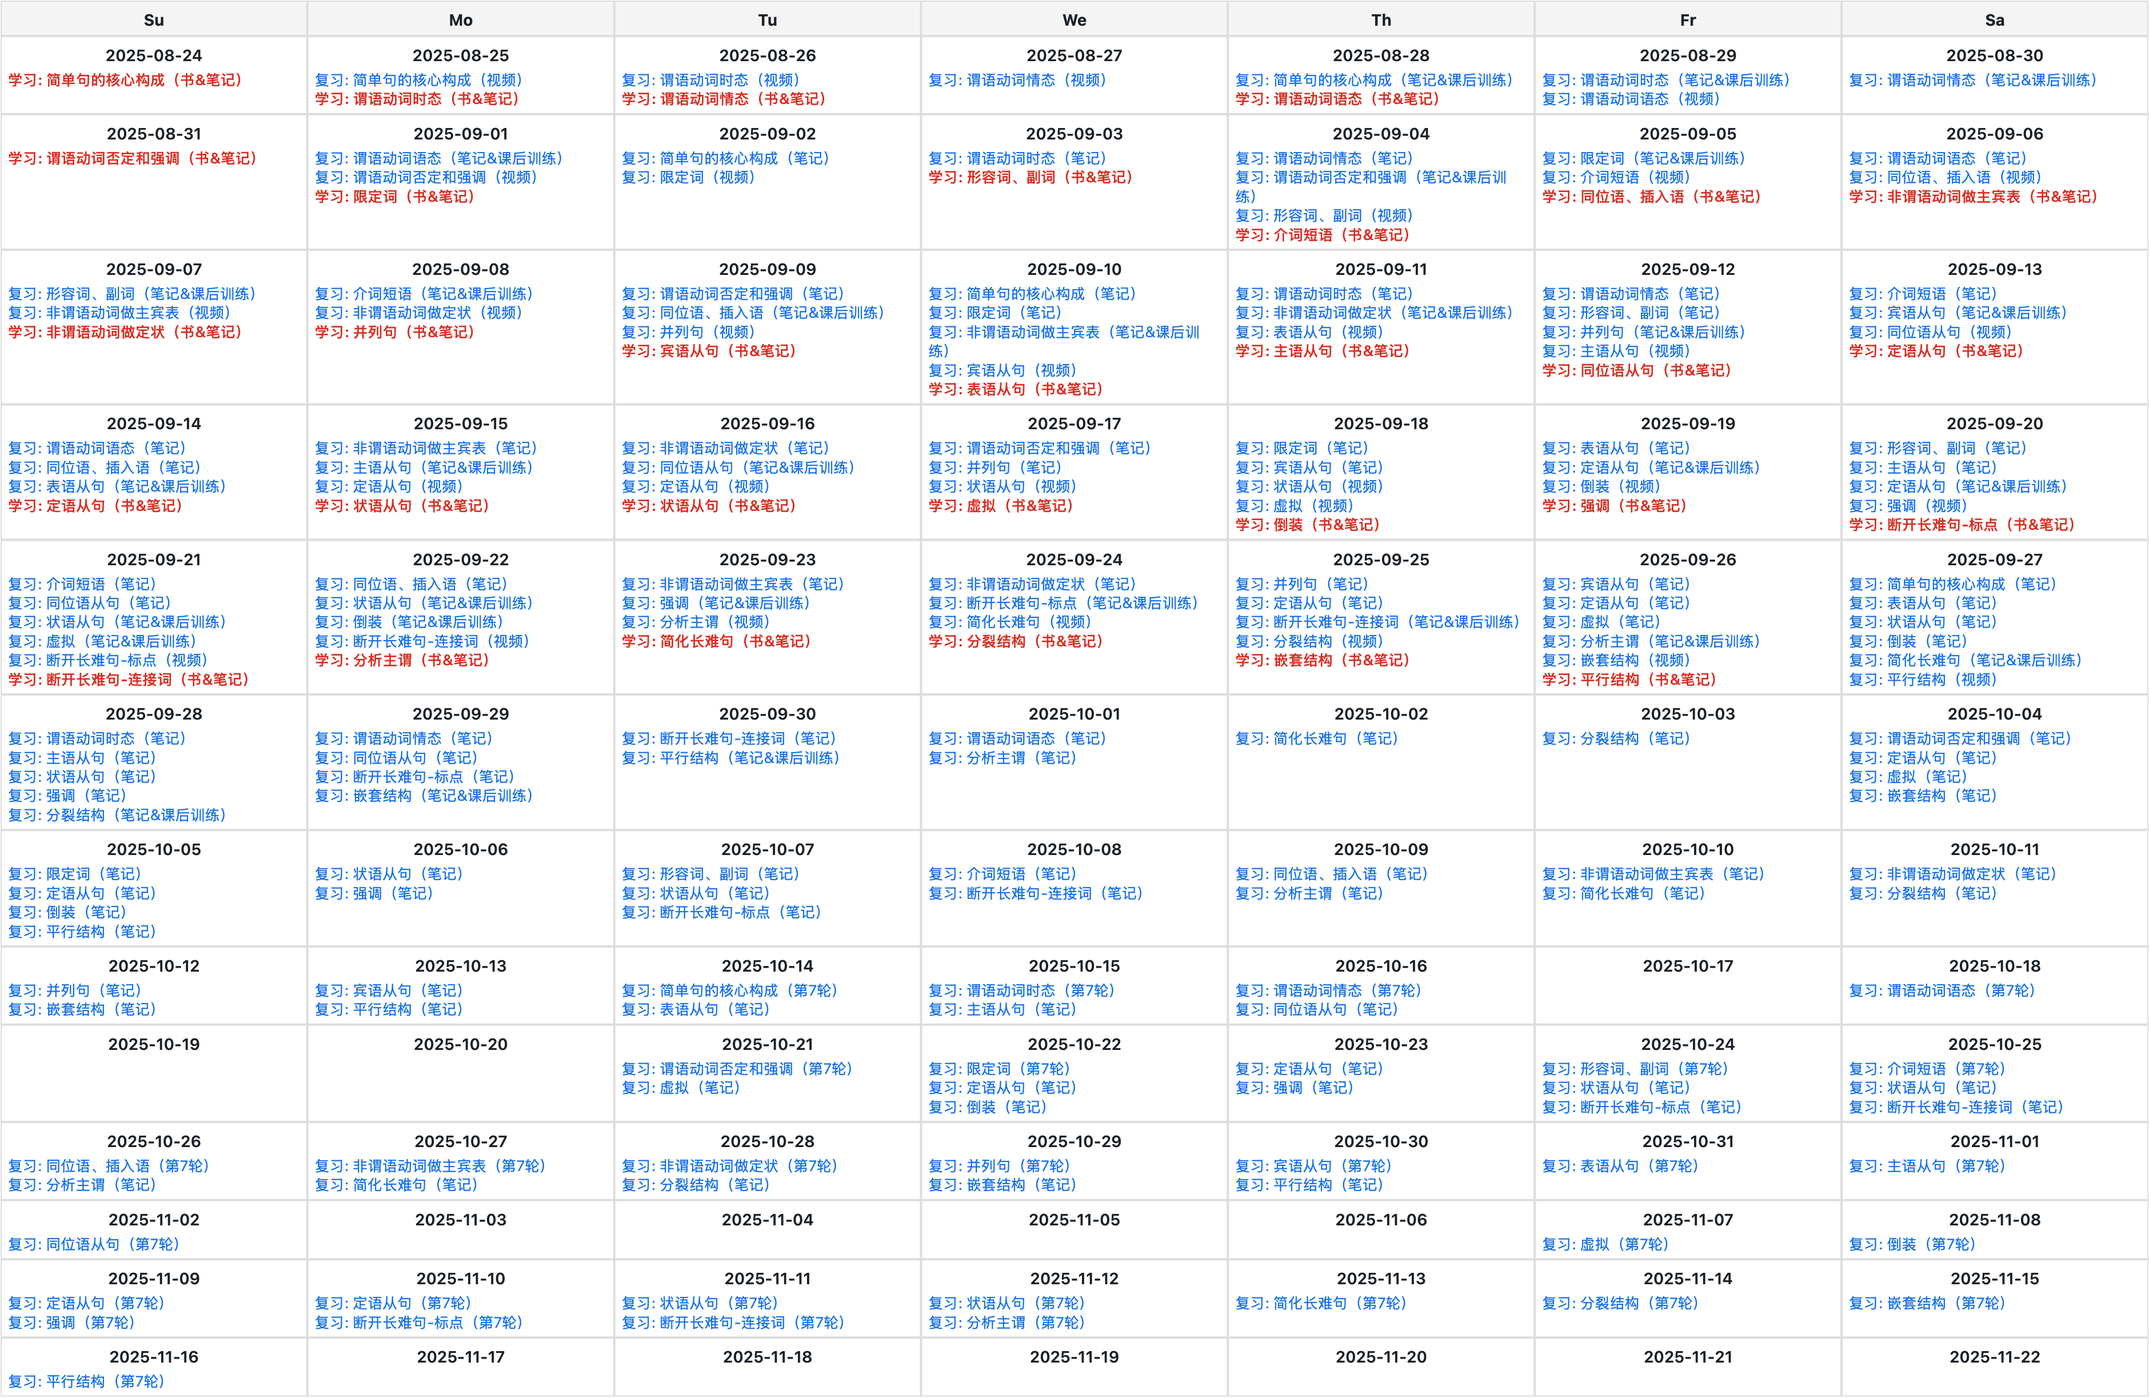
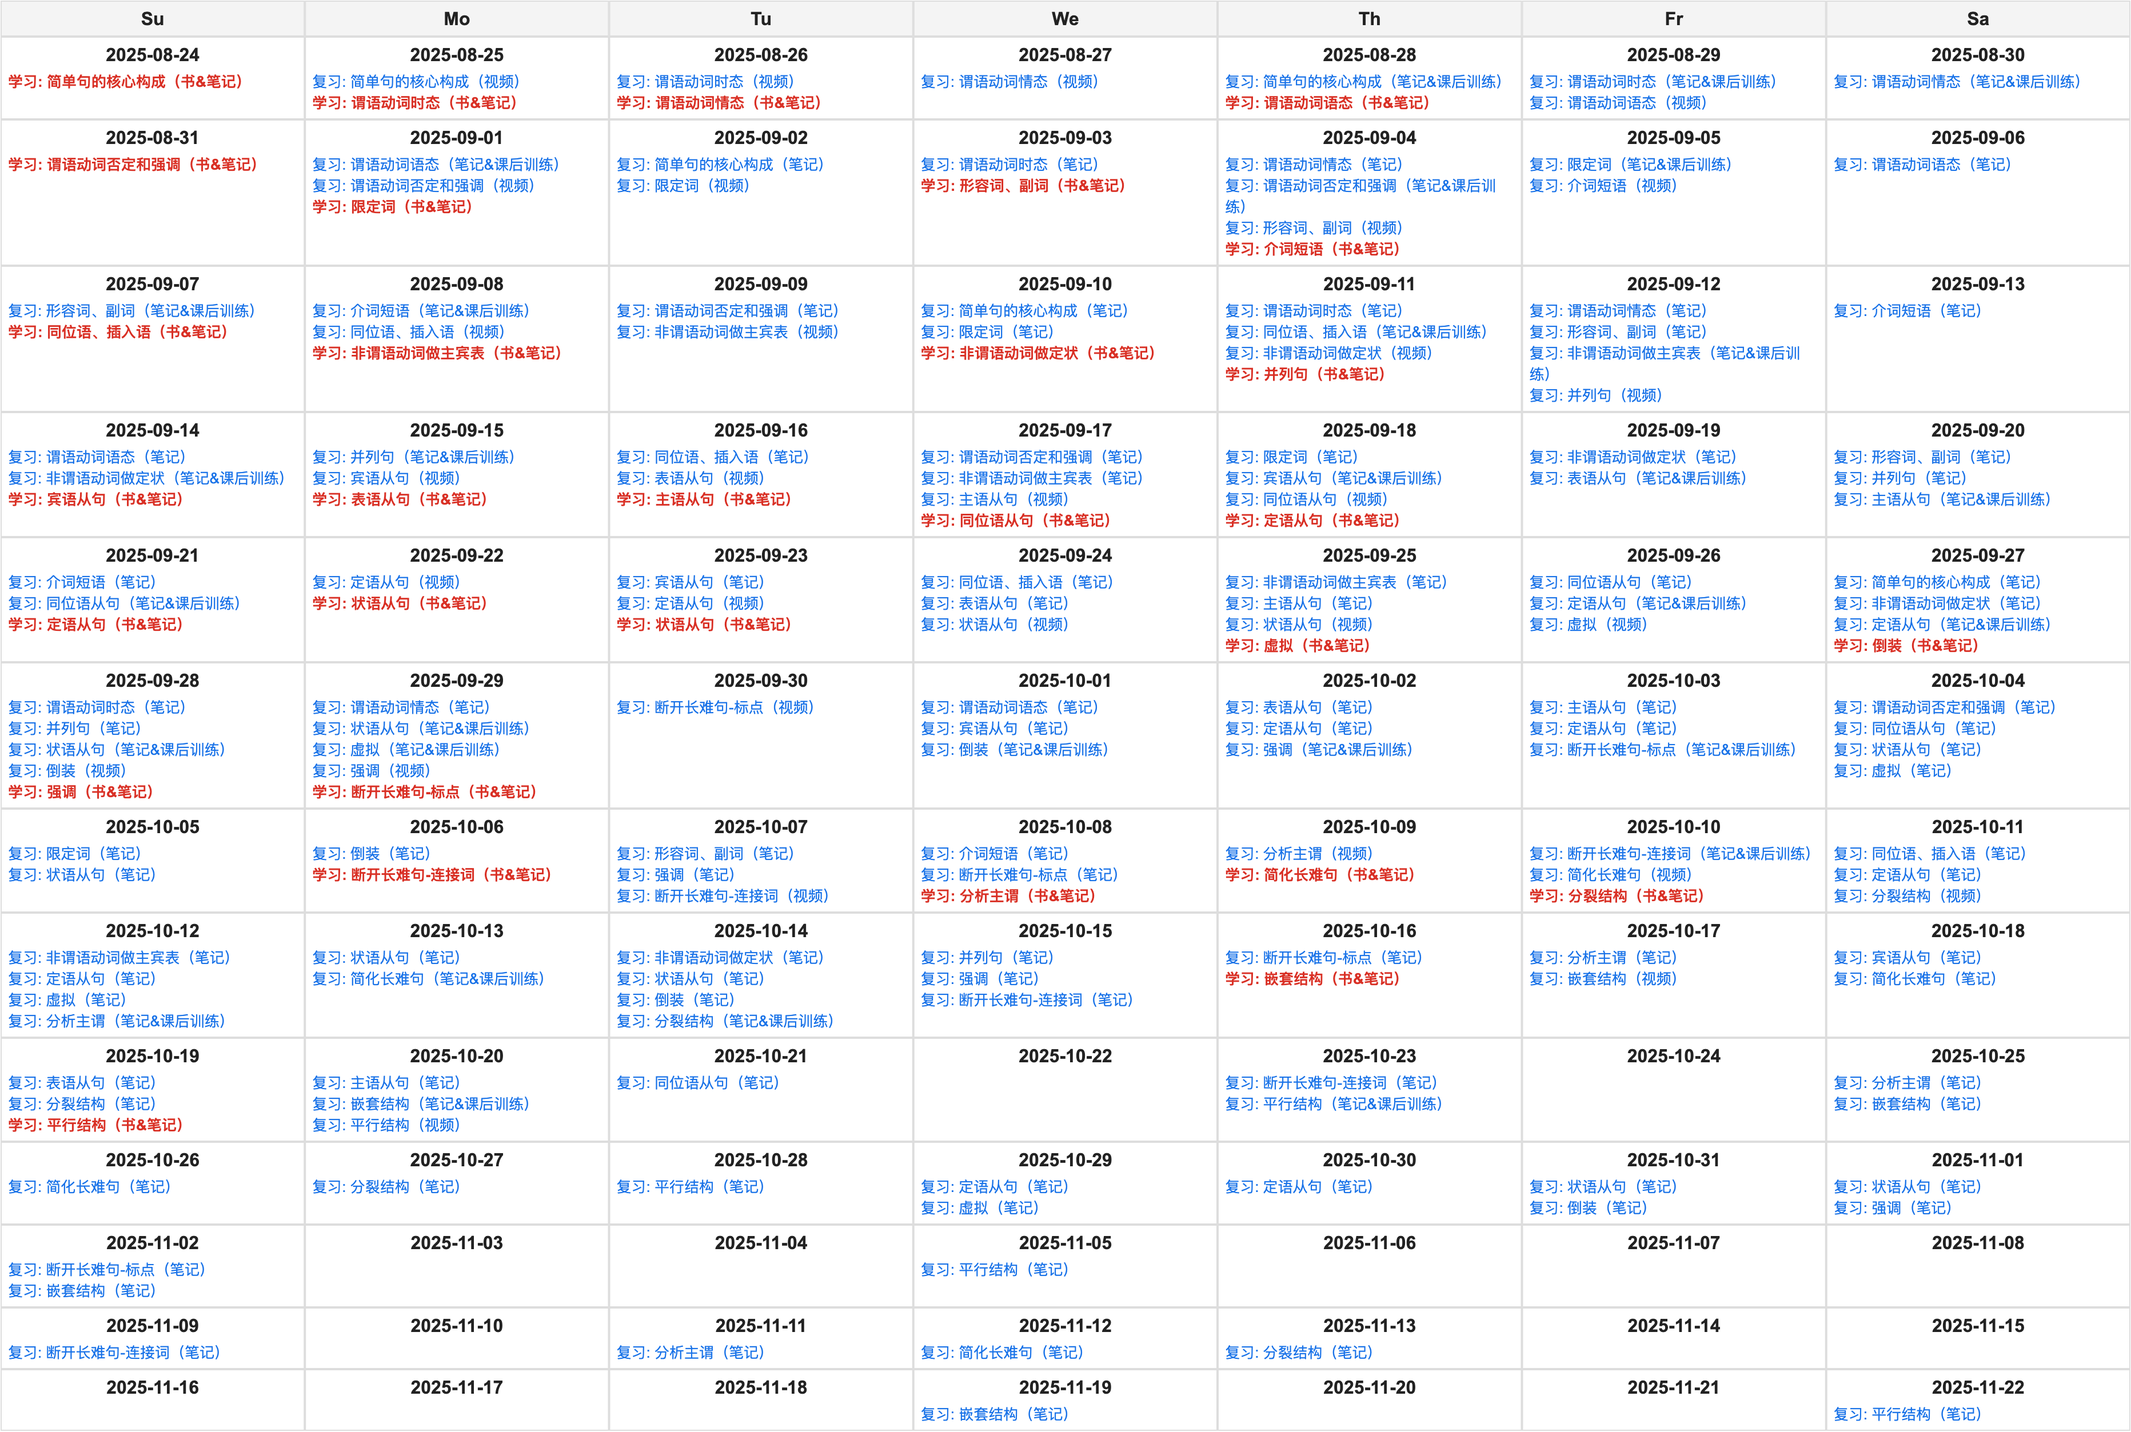
update: p30-p32, p39-p41

Changed region(s): [[0.0, 0.0311, 0.9957, 0.9943], [0.7468, 0.9632, 0.809, 0.9943]]

diff --git a/utils/html/generate-forgetting-curve-with-task-duration.html b/utils/html/generate-forgetting-curve-with-task-duration.html
@@ -53,9 +53,9 @@
     </label>
 
     <label>休息日（YYYY-MM-DD，逗号分隔）:
-        <!-- 数学休息日： 2025-08-29,2025-08-30,2025-09-02,2025-09-03,2025-09-04,2025-09-05,2025-09-09,2025-09-10,2025-09-11,2025-09-13,2025-09-16,2025-09-19,2025-09-20,2025-09-28,2025-09-30,2025-10-08,2025-10-09,2025-10-11,2025-10-12,2025-10-14,2025-10-17     -->
-        <!-- 英语语法休息日：2025-08-27,2025-08-29,2025-08-30,2025-09-02  -->
-        <input type="text" id="rest-days" value="2025-08-29,2025-08-30,2025-09-02,2025-09-03,2025-09-04,2025-09-05,2025-09-09,2025-09-10,2025-09-11,2025-09-13,2025-09-16,2025-09-19,2025-09-20,2025-09-28,2025-09-30,2025-10-08,2025-10-09,2025-10-11,2025-10-12,2025-10-14,2025-10-17" class="rest-input">
+        <!-- 数学休息日: 2025-08-29,2025-08-30,2025-09-02,2025-09-03,2025-09-04,2025-09-05,2025-09-09,2025-09-10,2025-09-11,2025-09-13,2025-09-16,2025-09-19,2025-09-20,2025-09-28,2025-09-30,2025-10-08,2025-10-09,2025-10-11,2025-10-12,2025-10-14,2025-10-17     -->
+        <!-- 英语语法休息日: 2025-08-27,2025-08-29,2025-08-30,2025-09-02,2025-09-05,2025-09-06,2025-09-09,2025-09-12,2025-09-13,2025-09-19,2025-09-20,2025-09-24,2025-09-26,2025-09-30,2025-10-01,2025-10-02,2025-10-03,2025-10-04,2025-10-05,2025-10-07,2025-10-11,2025-10-12,2025-10-13,2025-10-14,2025-10-15,2025-10-17,2025-10-18 -->
+        <input type="text" id="rest-days" value="2025-08-27,2025-08-29,2025-08-30,2025-09-02,2025-09-05,2025-09-06,2025-09-09,2025-09-12,2025-09-13,2025-09-19,2025-09-20,2025-09-24,2025-09-26,2025-09-30,2025-10-01,2025-10-02,2025-10-03,2025-10-04,2025-10-05,2025-10-07,2025-10-11,2025-10-12,2025-10-13,2025-10-14,2025-10-15,2025-10-17,2025-10-18" class="rest-input">
     </label>
 
     <div>

diff --git a/english/word/simple-word/markdown/p30-p32.md b/english/word/simple-word/markdown/p30-p32.md
@@ -2,7 +2,10 @@
 
 - pool
     - n. 水池；vt. 汇聚，把...集中在一起
-    - a way of pooling assets
+    - a way of pooling assets([ˈæset])
+- poll [poʊl]
+    - n. 民意测验；选举投票
+    - pull [pʊl] v. 拉
 - yours
 - myself
 - convenient
@@ -40,7 +43,7 @@
 - reshape
     - v. 重塑
 - tuition [tuˈɪʃn]
-    - n. 教学，指导；学费 
+    - n. 教学，指导；学费
 - subheading
     - n. 副标题，小标题
     - sub- 在...之下
@@ -54,19 +57,20 @@
 - hair
     - n. 头发，毛发
 - camp [kæmp]
-    - n. 野营，营地； vi. 露营 
+    - n. 野营，营地； vi. 露营
     - Suppose your university is going to host a <u>summer camp</u> for high school students.
         - summer camp 夏令营
 - lag [læɡ]
-    - vi. 拖后腿，走得慢 
-    - Graduates from elite([ɪˈliːt] 精英) universities tend to lag behind the others <u>due to(由于)</u> decreased opportunities.
+    - vi. 拖后腿，走得慢
+    - Graduates from elite([ɪˈliːt] 精英) universities tend to lag behind the others <u>due to(由于)</u> decreased
+      opportunities.
     - leg n. 腿
 - loser
 - coal [koʊl]
-    - n. 煤块 
+    - n. 煤块
     - cold
 - drought [draʊt]
-    - n. 干旱；旱灾 
+    - n. 干旱；旱灾
 - guess
     - v./n. 猜测；推测
 - reorganize
@@ -83,14 +87,14 @@
     - 应该
         - I will be your God and you shall be my people.
 - chew [tʃuː]
-    - v. 咀嚼，嚼碎 
+    - v. 咀嚼，嚼碎
 - trillion [ˈtrɪljən]
-    - num. 万亿；兆 
+    - num. 万亿；兆
     - billion 十亿
     - million 百万
     - 1(trillion),000(billion),000(million),000(thousand),000
 - terrible
-    - adj. 极度的；可怕的；**糟糕的**
+    - adj. **糟糕的**；极度的；可怕的
     - A clean copy <u>fresh off(刚刚完成/出炉)</u> a printer may look terrible.
     - terri- 恐怖
         - terror [ˈterər] n. 恐怖；可怕的人；恐怖的事
@@ -102,28 +106,28 @@
     - n. 磅（重量）；英镑； v. 猛烈敲击
     - pend- 悬挂；花销
 - nasty [ˈnæsti]
-    - adj. 令人讨厌的；险恶的；下流的 
+    - adj. 令人讨厌的；险恶的；下流的
 - gold
     - n. 黄金；金色；adj. 金质的；金色的
     - gold rush 淘金热
     - golden adj. 金色的；金制的
 - shore [ʃɔːr]
-    - n. 海滨； vt. 支持，支撑(shore up) 
+    - n. 海滨；vt. 支持，支撑(shore up)
     - The government used subsidies(津贴) to <u>shore (up)</u> farm prices.
     - share
 - funny
     - adj. 滑稽的；稀奇的；可笑的，稍感不适的
 - bury [ˈberi]
-    - vt. 掩藏，掩埋 
+    - vt. 掩藏，掩埋
     - bur- == br- 燃烧
     - Archaeologists([ˌɑːrkiˈɑːlədʒɪst] 考古学家) also may locate(定位) buried remains by using technologies.
 - cucumber [ˈkjuːkʌmbər]
-    - n. 黄瓜 
+    - n. 黄瓜
 - suburb [ˈsʌbɜːrb]
-    - n. 市郊；郊区 
+    - n. 市郊；郊区
     - urban
 - enemy [ˈenəmi]
-    - n. 敌人；敌国 
+    - n. 敌人；敌国
     - They can identify(辨认) friends to cooperate with and enemies to avoid. 他们能够辨认出可以合作的朋友，以及需要回避的敌人
 - gate
     - n. 大门；入口；登机口
@@ -137,12 +141,13 @@
     - Some of the contents of this gas pollute the atmosphere([ˈætməsfɪr] 大气层).
     - pollution n. 污染物
 - charitable [ˈtʃærətəbl]
-    - adj. 慈善事业的；慈善团体的 
+    - adj. 慈善事业的；慈善团体的
     - charity n. 慈善事业
         - care- 关心
-        - Buying gifts or giving to charity is often more pleasurable([ˈplɛʒərəbəl]) than purchasing([ˈpɜːrtʃəs] 购买) things for oneself.
+        - Buying gifts or giving to charity is often more pleasurable([ˈplɛʒərəbəl]) than purchasing([ˈpɜːrtʃəs] 购买)
+          things for oneself.
 - fossil [ˈfɑːsl]
-    - n. **化石**；老顽固 
+    - n. **化石**；老顽固
     - pos- == fos- 放置
     - The fossil record shows that many species(物种) have endured([ɪnˈdʊr] 持续存在/忍受/经受住) for millions of years.
 - float
@@ -158,7 +163,7 @@
 - politically [pəˈlɪtɪklɪ]
     - adv. 政治上
     - policy [ˈpɑːləsi] n. 政策
-    - political [pəˈlɪtɪkl] adj. 政治的 
+    - political [pəˈlɪtɪkl] adj. 政治的
 - sick
     - adj. 患病的；想吐的；腻烦的；厌恶的(sick of)
     - 生病的
@@ -170,14 +175,14 @@
         - circular adj. 圆圈的，环的
     - You may have a circle of friends...
 - whenever
-    - conj. 无论何时，**每当**
+    - conj. **每当**，无论何时
     - Whenever I recite(背诵) words，I will think of my vocabulary teacher.
 - perfectly
     - adv. 完全地，十分
 - grocery [ˈɡroʊsəri]
-    - n. 食品杂货店 
+    - n. 食品杂货店
 - creature [ˈkriːtʃər]
-    - n. 生物，人，动物 
+    - n. 生物，人，动物
     - They are good-natured，cooperative creatures.
     - create v. 创造，产生
         - cre- 产生
@@ -187,7 +192,7 @@
     - luck n. 运气；好运
     - lock v. 锁
 - personnel [ˌpɜːrsəˈnel]
-    - n. 人员，**员工**；人事部门 
+    - n. **员工**，人员；人事部门
     - ~~a/an personnel~~
     - personal adj. 个人的
     - personally adv. 在个人看来
@@ -198,7 +203,7 @@
     - adj. 活着的；存在的；有活力的
     - ...stay alive，but have fewer children.
 - square [skwer]
-    - n. **广场；平方**；正方形；adj. **平方的**；直角的 
+    - n. **广场；平方**；正方形；adj. **平方的**；直角的
     - quar- 四
         - quarter 四分之一 [ˈkwɔːrtər]
     - 平方
@@ -209,11 +214,8 @@
     - If you're not sure，ask for honest feedback from trusted friends.
     - dishonest adj. 不诚实的；骗人的；欺骗性的
     - honestly adv. 诚实地；正当地
-- poll [poʊl]
-    - n. 民意测验；选举投票
-    - pull [pʊl] v. 拉 
 - youth [juːθ]
-    - n. 青春，青少年时代(不可数)；青年(可数) 
+    - n. 青春，青少年时代(不可数)；青年(可数)
     - lead more youths into criminal([ˈkrɪmɪnl]) behavior
     - young adj. 年轻的
 - ride
@@ -222,7 +224,7 @@
         - Princes(王子) and princesses(公主) have day-jobs and ride bicycles，not horses(马匹).
     - She took some friends for a ride in the family car.
 - pause [pɔːz]
-    - vi./n. 暂停，中止 
+    - vi./n. 暂停，中止
 - soft
     - adj. 软的；柔软的；轻柔的；柔和的；温和的；不含酒精的
     - soft passage 轻柔的乐章
@@ -232,7 +234,7 @@
     - undermine v. 破坏
         - Providing too little security([sɪˈkjʊrəti]) undermines public support.
 - ring
-    - n. 戒指；**环；铃声**；打电话
+    - n. **环；铃声**；戒指；打电话
 - son
 - tear
     - v. 撕裂；撕；n. 眼泪；泪珠
@@ -242,19 +244,19 @@
     - 眼泪
         - They become sad when the tears begin to flow.
 - tobacco [təˈbækoʊ]
-    - n. 烟草，烟叶 
+    - n. 烟草，烟叶
 - thesis [ˈθiːsɪs]
-    - n. 论文；论题 (pl. theses) 
+    - n. 论文；论题 (pl. theses)
     - theme + analysis
 - bother [ˈbɑːðər]
-    - vt. 打扰；使不安 
+    - vt. 打扰；使不安
     - This has long bothered policymakers in poor countries.
     - brother n. 兄弟
 - brown
     - adj. 棕色的，褐色的； n. 褐色
     - br- == bur- 燃烧
 - depict [dɪˈpɪkt]
-    - vt. 描绘，描写，描述 
+    - vt. 描绘，描写，描述
     - de 前缀 向下
     - pic- 描绘
         - picture
@@ -262,6 +264,9 @@
 - runner
 - lane
     - n. 小路，车道
+    - trail [treɪl] n. **小径；痕迹**
+    - pathway n. 小路，小径
+    - path n. 小路
 - puritan [ˈpjʊrɪtən]
     - n. **清教徒**；禁欲者；苦行憎
 - floor
@@ -278,11 +283,11 @@
     - **base** n. 基础，底部； v. 把...基于(base on)
     - basic adj. 基本的，基础的
 - poet [ˈpoʊət]
-    - n. 诗人 
+    - n. 诗人
     - poetry [ˈpoʊətri] n. 诗歌
     - poetic [poʊˈetɪk] adj. 诗歌的
 - hunter [ˈhʌntər]
-    - n. 猎人；狩猎者 
+    - n. 猎人；狩猎者
     - **headhunter** n. 猎头
     - hurt v./n. 受伤
     - hunt [hʌnt] v. 打猎
@@ -301,7 +306,7 @@
     - rental n. 租金
 - theirs
 - gum [ɡʌm]
-    - n. **口香糖**；牙龈；树胶 
+    - n. **口香糖**；牙龈；树胶
     - chew([tʃuː]) gum 嚼口香糖
 - thereby
     - adv. 因此，从而
@@ -312,20 +317,20 @@
             - His analysis should therefore end any self-contentedness(指“对自己太满意、安于现状”的心态 -> 自满、自得).
             - Therefore, it is important to study humans.
 - ladder [ˈlædər]
-    - n. 梯子；阶梯；途径 
+    - n. 梯子；阶梯；途径
     - Japanese education is praised(称赞) for helping the young climb the social ladder.
     - stairs 楼梯
     - lift(英)/elevator(美) 直梯
         - lift -> loft
 - monthly
 - clue [kluː]
-    - n. 线索，提示 
+    - n. 线索，提示
     - These offer clues to the careers([kəˈrɪr]) that will fit them best
 - questionable
     - adj. 可疑的；有问题的；未必准确的
     - question n. 问题； v. 提问
 - foresee [fɔːrˈsiː]
-    - vt. 预见，预料，预知 
+    - vt. 预见，预料，预知
     - fore- 在...之前
     - forecast [ˈfɔːrkæst] n./v. 预测，预料
         - cast- 投掷，扔
@@ -337,6 +342,8 @@
         - My sister and I do not look alike.
     - like prep. 像
         - Much of our social life is like that.
+    - dislike vt./n. 不喜欢，厌恶
+    - unlike prep. 不像，和...不同
 - engine
     - n. 发动机；机车，火车头
 - cheat
@@ -352,7 +359,7 @@
     - shoot vi./vt. 射击
 - length
 - violence [ˈvaɪələns]
-    - n. 暴力；猛烈 
+    - n. 暴力；猛烈
     - viol- 暴力
         - violent adj. 暴力的；猛烈的
         - violate v. 违背；冒犯
@@ -378,9 +385,9 @@
     - robot n. 机器人
     - robust adj. 强壮的；耐用的，结实的 [roʊˈbʌst]
 - loan [loʊn]
-    - n. 贷款；借，贷款 
+    - n. 贷款；借，贷款
     - housing loans 住房贷款
-- garment
+- garment [ˈɡɑːrmənt]
     - n. 服装(pl.)；一件衣服
     - People are more interested in unaffordable(负担不起) garments.
 - silent
@@ -393,11 +400,12 @@
     - neighbor/neighbour n. 邻居；邻近的人；邻国
         - their older neighbors
 - village [ˈvɪlɪdʒ]
-    - n. 乡村；(the village)乡村居民 
+    - n. 乡村；(the village)乡村居民
 - illness n. 疾病
 - click
     - v. 敲击，点击
-    - By watching what people search for，click on and say online，companies can aim "behavioral" ads at those most likely to buy.
+    - By watching what people search for，click on and say online，companies can aim "behavioral" ads at those most likely
+      to buy.
 - kingdom
     - n. 王国；领域
 - their
@@ -405,9 +413,9 @@
 - joke
     - n. 笑话，玩笑
 - ceiling [ˈsiːlɪŋ]
-    - n. 天花板；最高限度，最高限额 
+    - n. 天花板；最高限度，最高限额
     - glass ceiling 狭义：女性在职场中受到的不公平的待遇 -> 广义：指所有弱势群体面临的“看不见的职业发展障碍”
-        - They open the way to equality and they break through the glass ceiling. 
+        - They open the way to equality and they break through the glass ceiling.
 - manpower
     - n. 劳动力；人力
 - tester

diff --git a/english/word/simple-word/markdown/p39-p41.md b/english/word/simple-word/markdown/p39-p41.md
@@ -26,7 +26,7 @@
 - exit
     - n. 出口， vi. 离开
     - it- 走
-        - initiate [ɪˈnɪʃieɪt 开始，开创
+        - initiate [ɪˈnɪʃieɪt] 开始，开创
         - ambition [æmˈbɪʃn] 雄心，野心
 - amazed
     - adj. 惊奇的，惊讶的
@@ -91,7 +91,7 @@
     - special adj. 特别的，具体的
 - pile [paɪl]
     - n. 一堆，一叠； vt. 堆积，堆放； vi. 蜂拥，涌入
-    - a pile of 一些，一些列
+    - a pile of 一些，一系列
         - Each participant was shown a pile of pens.
     - 涌入
         - ...more students to pile into law schools.
@@ -145,7 +145,7 @@
 - shortly
 - laziness
     - n. 无精打采，懒惰
-    - lazy adj. 懒散的，懒惰的
+    - lazy [ˈleɪzi] adj. 懒散的，懒惰的
     - 我在床上lazy（懒惰的），感觉十分cozy（[ˈkoʊzi] 舒适的），妈妈气的crazy（疯狂的）
 - whereby
     - adv. 借此，凭此；由于
@@ -181,7 +181,6 @@
     - geography [dʒiˈɑːɡrəfi] n. 地理学；地理
 - geometry [dʒiˈɑːmətri]
     - n. 几何；几何图形
-    - geography [dʒiˈɑːɡrəfi] n. 地理（学）
 - thinker
 - soap [səʊp]
     - n. 肥皂
@@ -189,9 +188,10 @@
 - soak [soʊk]
     - v. 浸泡
     - ...socked in holy water.
-    - suck
+    - suck v. 吮吸; 吸引;
 - prose [proʊz]
     - n. 散文
+    - essay n. 散文
 - ant
     - n. 蚂蚁
 - unimportant
@@ -211,7 +211,7 @@
     - adv. 其间，其时
 - uneasy
     - adj. 不安的；担心的
-- February
+- February [ˈfebrueri]
 - bet [bet]
     - vt. 以...打赌；vi. 打赌
     - He still likes to bet (on) the horses.
